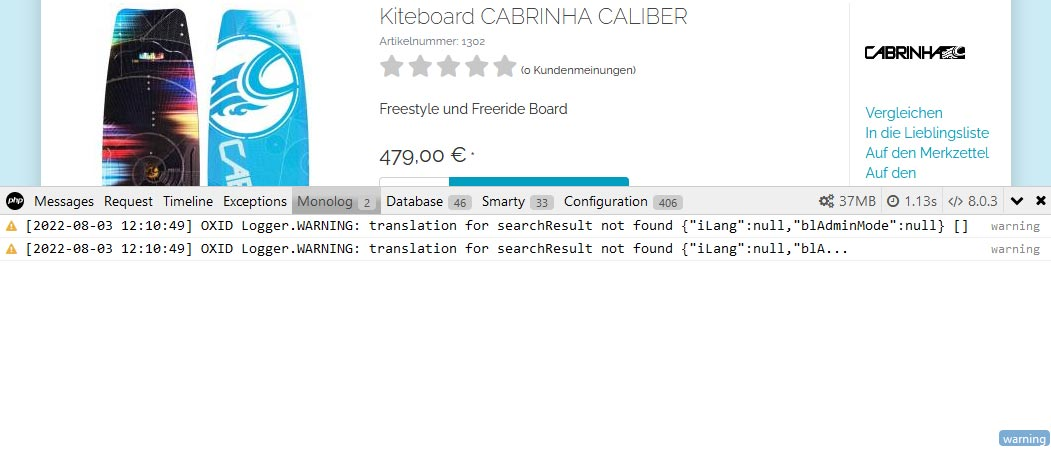
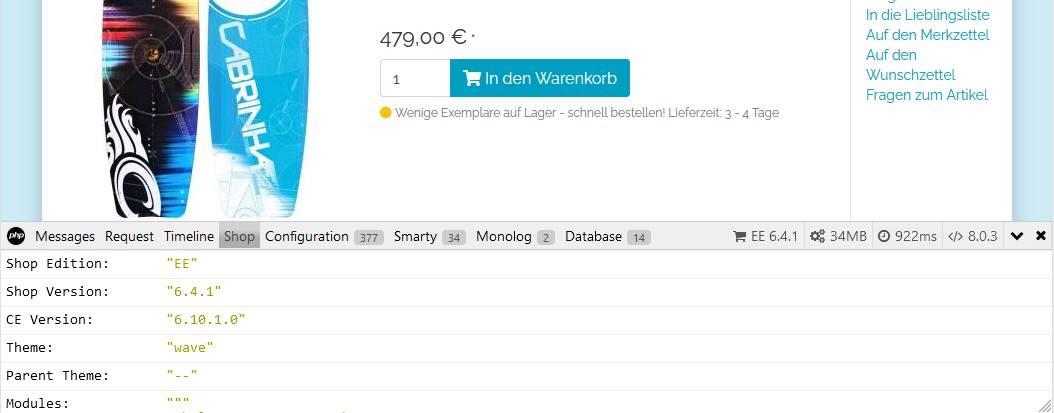
adjust documentation, add todo list

diff --git a/Application/Models/Collectors/SmartyCollector.php b/Application/Models/Collectors/SmartyCollector.php
@@ -6,6 +6,7 @@
  *
  * https://www.d3data.de
  *
+ * @copyright (c) 2016 Dmitry Kosenkov
  * @copyright (C) D3 Data Development (Inh. Thomas Dartsch)
  * @author    D3 Data Development - Daniel Seifert <info@shopmodule.com>
  * @link      https://www.oxidmodule.com

diff --git a/README.en.md b/README.en.md
@@ -10,10 +10,11 @@ The debug bar enables the display of relevant debug information in the shop fron
 ## Table of content
 
 - [Installation](#installation)
+- [How to use](#how-to-use)
 - [Changelog](#changelog)
 - [Contributing](#contributing)
 - [License](#license)
-- [Further licences and terms of use](#further-licences-and-terms-of-use)
+- [Further licenses and terms of use](#further-licenses-and-terms-of-use)
 
 ## Installation
 
@@ -39,7 +40,6 @@ Please enter the following section in the `composer.json` of your project:
 
 Open a command line and navigate to the root directory of the shop (parent directory of source and vendor). Execute the following command. Adapt the path details to your installation environment.
 
-
 ```bash
 php composer require d3/oxid-debugbar:^1.0
 ``` 
@@ -50,21 +50,25 @@ Activate the module in Shopadmin under "Extensions -> Modules".
 
 ## How to use
 
+__Please note that the DebugBar contains security-relevant information. It should therefore not be activated under any circumstances in a freely accessible installation.__
+
 The DebugBar displays the following tabs:
 - Messages
-  can contain individual debug output. Messages can be set within the PHP code with `debugVar($message)` and corresponds to the OXID function `dumpVar(...)`
+  can contain individual debug output. The messages can be set within the PHP code with `debugVar($message)` and corresponds to the OXID function `dumpVar(...)`
 - Request
   shows all information from GET and POST requests, as well as session, cookie and server variables
 - Timeline
   displays all areas defined with `startProfile` and `stopProfile` with single and summed execution time as well as a waterfall diagram
+- Shop
+  shows basic shop information (edition, versions, theme information)
+- Configuration
+  provides all configuration settings of the shop from database and config files
+- Smarty
+  lists all variables of the template engine that are available on the current shop page
 - Monolog
   lists all log messages passed to the Monolog Logger
 - Database
   shows all database queries necessary to generate the current page
-- Smarty
-  lists all Smarty variables available on the current shop page
-- Configuration
-  Provides all configuration settings of the shop (from database and file).
 
 ## Changelog
 

diff --git a/README.md b/README.md
@@ -10,6 +10,7 @@ Die Debug Bar ermöglicht die Darstellung relevanter Debuginformationen im Shopf
 ## Inhaltsverzeichnis
 
 - [Installation](#installation)
+- [Verwendung](#verwendung)
 - [Changelog](#changelog)
 - [Beitragen](#beitragen)
 - [Lizenz](#lizenz)
@@ -39,7 +40,6 @@ Bitte tragen Sie den folgenden Abschnitt in die `composer.json` Ihres Projektes 
 
 Öffnen Sie eine Kommandozeile und navigieren Sie zum Stammverzeichnis des Shops (Elternverzeichnis von source und vendor). Führen Sie den folgenden Befehl aus. Passen Sie die Pfadangaben an Ihre Installationsumgebung an.
 
-
 ```bash
 php composer require d3/oxid-debugbar:^1.0
 ``` 
@@ -50,6 +50,8 @@ Aktivieren Sie das Modul im Shopadmin unter "Erweiterungen -> Module".
 
 ## Verwendung
 
+__Bitte beachten Sie, dass die DebugBar sicherheitsrelevante Informationen enthält. Diese sollte daher unter keinen Umständen in einer frei zugänglichen Installation aktiviert sein.__
+
 Die DebugBar stellt folgende Tabs dar:
 - Messages
   kann individuelle Debugausgaben enthalten. Die Nachrichten können innerhalb des PHP-Codes mit `debugVar($message)` gesetzt werden und entspricht der OXID-Funktion `dumpVar(...)`.
@@ -57,14 +59,16 @@ Die DebugBar stellt folgende Tabs dar:
   zeigt alle Angaben aus GET- und POST-Requests, sowie Session-, Cookie- und Servervariablen
 - Timeline
   stellt alle mit `startProfile` und `stopProfile` definierten Bereiche mit einzelner und summierter Ausführungszeit sowie als Wasserfalldiagramm dar
+- Shop
+  zeigt grundlegende Shopinformationen (Edition, Versionen, Themeinformationen)
+- Configuration
+  stellt alle Konfigurationseinstellungen des Shops aus Datenbank und config-Dateien zur Verfügung
+- Smarty
+  listet alle Variablen der Template-Engine, die auf der aktuellen Shopseite zur Verfügung stehen
 - Monolog
   listet alle an den Monolog Logger übergebenen Lognachrichten
 - Database
   zeigt alle zur Generierung der aktuellen Seite nötigen Datenbankabfragen
-- Smarty
-  listet alle Smarty-Variablen, die auf der aktuellen Shopseite zur Verfügung stehen
-- Configuration
-  stellt alle Konfigurationseinstellungen des Shops aus Datenbank und Dateien zur Verfügung
 
 ## Changelog
 

diff --git a/CHANGELOG.md b/CHANGELOG.md
@@ -4,7 +4,19 @@ All notable changes to this project will be documented in this file.
 The format is based on [Keep a Changelog](https://keepachangelog.com/en/1.0.0/),
 and this project adheres to [Semantic Versioning](https://semver.org/spec/v2.0.0.html).
 
-## [Unreleased](https://git.d3data.de/D3Public/DebugBar/compare/1.0.0.0...rel_1.x)
+## [Unreleased](https://git.d3data.de/D3Public/DebugBar/compare/1.1.0.0...rel_1.x)
+
+## [1.1.0.0](https://git.d3data.de/D3Public/DebugBar/compare/1.0.0.0...1.1.0.0) - 2022-08-05
+### Added
+- shop edition and version information directly in the bar
+- basic shop informations (edition, version, theme informations) in the shop tab
+
+### Changed
+- reorder tabs
+- adjust tab icons for small viewports
+
+### removed
+- useless exceptions tab
 
 ## [1.0.0.0](https://git.d3data.de/D3Public/DebugBar/releases/tag/1.0.0.0) - 2022-07-30
 ### Added

diff --git a/ToDo.md b/ToDo.md
@@ -1,0 +1,5 @@
+# ToDo
+
+- clear tmp button
+- phpinfo() overview
+- automatic switch between Smarty and Twig
